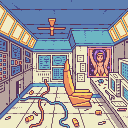
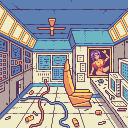
add new room images

Changed region(s): [[0.6562, 0.3438, 0.875, 0.625]]

diff --git a/packages/client/src/assets/images/rooms/index.ts b/packages/client/src/assets/images/rooms/index.ts
@@ -8,9 +8,9 @@ import room7 from './7_lobby.png';
 import room8 from './8_junkshop.png';
 import room9 from './9_forest.png';
 import room10 from './10_insectforest.png';
-import room11 from './11_temple.png';
+import room11 from './11_waterfall.png';
 import room12 from './12_machine.png';
-import room13 from './minashop.png';
+import room13 from './13_giftshop.png';
 import room14 from './14_ceo.png';
 import room15 from './15_templecave.png';
 import room16 from './16_technotemple.png';
